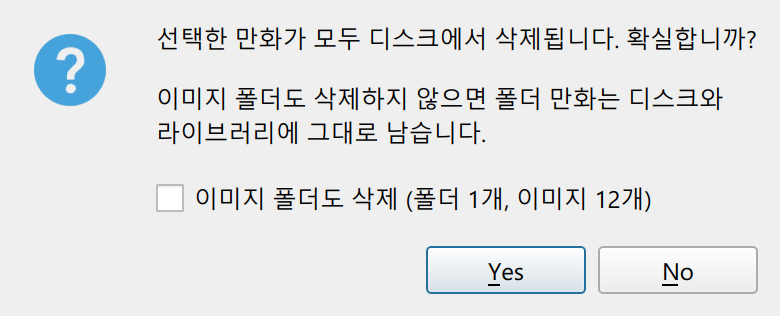
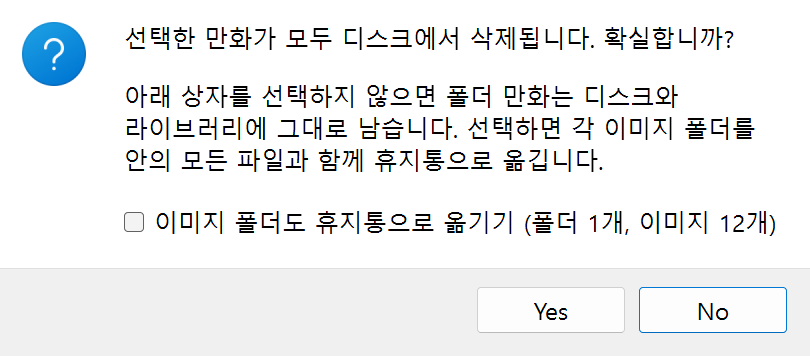
Describe the folder comic rules, deletion and Organize files as they are now in the README

diff --git a/README.md b/README.md
@@ -1,6 +1,6 @@
 ## About this fork
 
-A personal fork of [YACReader](https://github.com/YACReader/yacreader) with five changes to the comic reader and one to the library. Each reader change also has a closed preview PR that shows it as a diff against upstream `develop`, ready to send upstream if the maintainer wants it. The upstream README starts after the line.
+A personal fork of [YACReader](https://github.com/YACReader/yacreader) with changes to the comic reader and the library, listed below. Each reader change also has a closed preview PR that shows it as a diff against upstream `develop`, ready to send upstream if the maintainer wants it. The upstream README starts after the line.
 
 | Change | Kind | PR |
 |---|---|---|
@@ -88,20 +88,24 @@ YACReaderLibrary reads a folder of images as one comic, like a `.cbz`, without c
 
 <img src="docs/fork/library-image-folders.png" width="600" alt="A series folder whose chapter folders show as comics with covers and page counts">
 
-- **What counts as a comic:** a folder with at least one image directly inside, and no subfolders or comic files (`.cbz`, `.cbr`, `.pdf` and the like). Other files, such as `ComicInfo.xml` or a text file, do not matter. A folder whose name starts with a dot is never a comic.
+- **What counts as a comic:** a folder with at least one `.jpg`, `.jpeg`, `.png`, `.gif`, `.tif`, `.tiff`, `.bmp` or `.webp` image directly inside, and no subfolders or comic files (`.cbz`, `.cbr`, `.pdf` and the like). Other files, such as `ComicInfo.xml` or a text file, do not matter, and files whose name starts with a dot, like the `._` files macOS leaves, are not pages. The list is fixed, so YACReaderLibrary and YACReaderLibraryServer agree on it whatever image plugins they have, and YACReader shows these same pages when it opens a folder (upstream showed every format its image plugins read).
+- **Metadata folders:** `@eaDir`, `.@__thumb`, `__MACOSX`, `.AppleDouble`, `.thumbnails` and `.yacreaderlibrary` do not count as subfolders, and neither they nor the folders in them are comics. Only these exact names: your own folders, such as `@Manga`, are scanned like any other, and so are dot folders where the system shows them (Windows), as upstream does for archives.
 - **Layouts:** in `Series/Chapter 1/001.jpg`, Series is a folder and Chapter 1 is a comic. A folder with images and subfolders stays a folder, and its own images are left out.
-- **Like an archive:** cover, page count, `ComicInfo.xml` import when it is turned on, reading progress, and library updates when pages are added or removed.
+- **Like an archive:** cover, page count, `ComicInfo.xml` import when it is turned on, reading progress, and library updates when pages are added, removed or change size. With **Compare the modified date of files when updating a library** on, a folder comic's date is that of its newest page, so a new `ComicInfo.xml` does not count as a change.
 
 | Next to archives | Opened from the library |
 |---|---|
 | <img src="docs/fork/library-image-folders-next-to-archives.png" width="400" alt="Two cbz files and a folder of images side by side as comics"> | <img src="docs/fork/reader-folder-comic.png" width="400" alt="YACReader showing page 5 of 9 of a folder comic"> |
 | `Harbor Lights 03` is a folder, the other two are `.cbz` files | Opens at the page where reading stopped |
 
-- **Deleting:** folder comics are kept unless **Also delete the image folders** is checked. Checked, they go to the trash. If the trash refuses a folder, YACReaderLibrary asks before deleting it permanently.
+- **Deleting:** folder comics stay unless **Also move the image folders to the trash** is checked. Checked, each folder goes to the trash with everything in it. If the trash refuses a folder, YACReaderLibrary asks before deleting it for good, and then deletes only its images, `ComicInfo.xml` and the files Windows and macOS leave (`Thumbs.db`, `desktop.ini`, `.DS_Store`, `._` files). A folder that still holds anything else stays on disk, and the message lists what is left.
 
-  <img src="docs/fork/delete-folder-comics.png" width="450" alt="The delete confirmation with the Also delete the image folders box">
+  <img src="docs/fork/delete-folder-comics.png" width="450" alt="The delete confirmation with the Also move the image folders to the trash box">
+
+  This screenshot comes from the Windows build.
 
 - **Library updates:** a comic or folder that sorts after a new one by number, such as Chapter 10 after a new Chapter 3, is no longer removed and added again, so it keeps its reading lists and labels. This applies to archives too.
+- **Organize files:** a folder comic keeps every dot in its name, and no comic is moved into a folder comic, which would turn it into a plain folder. A comic headed there goes to a numbered folder instead, such as `Vol 1 (1)`.
 - **Not covered:** dragging a folder of images onto the library still imports only comic files, and Organize files does not move a folder comic to another drive.
 
 ---
